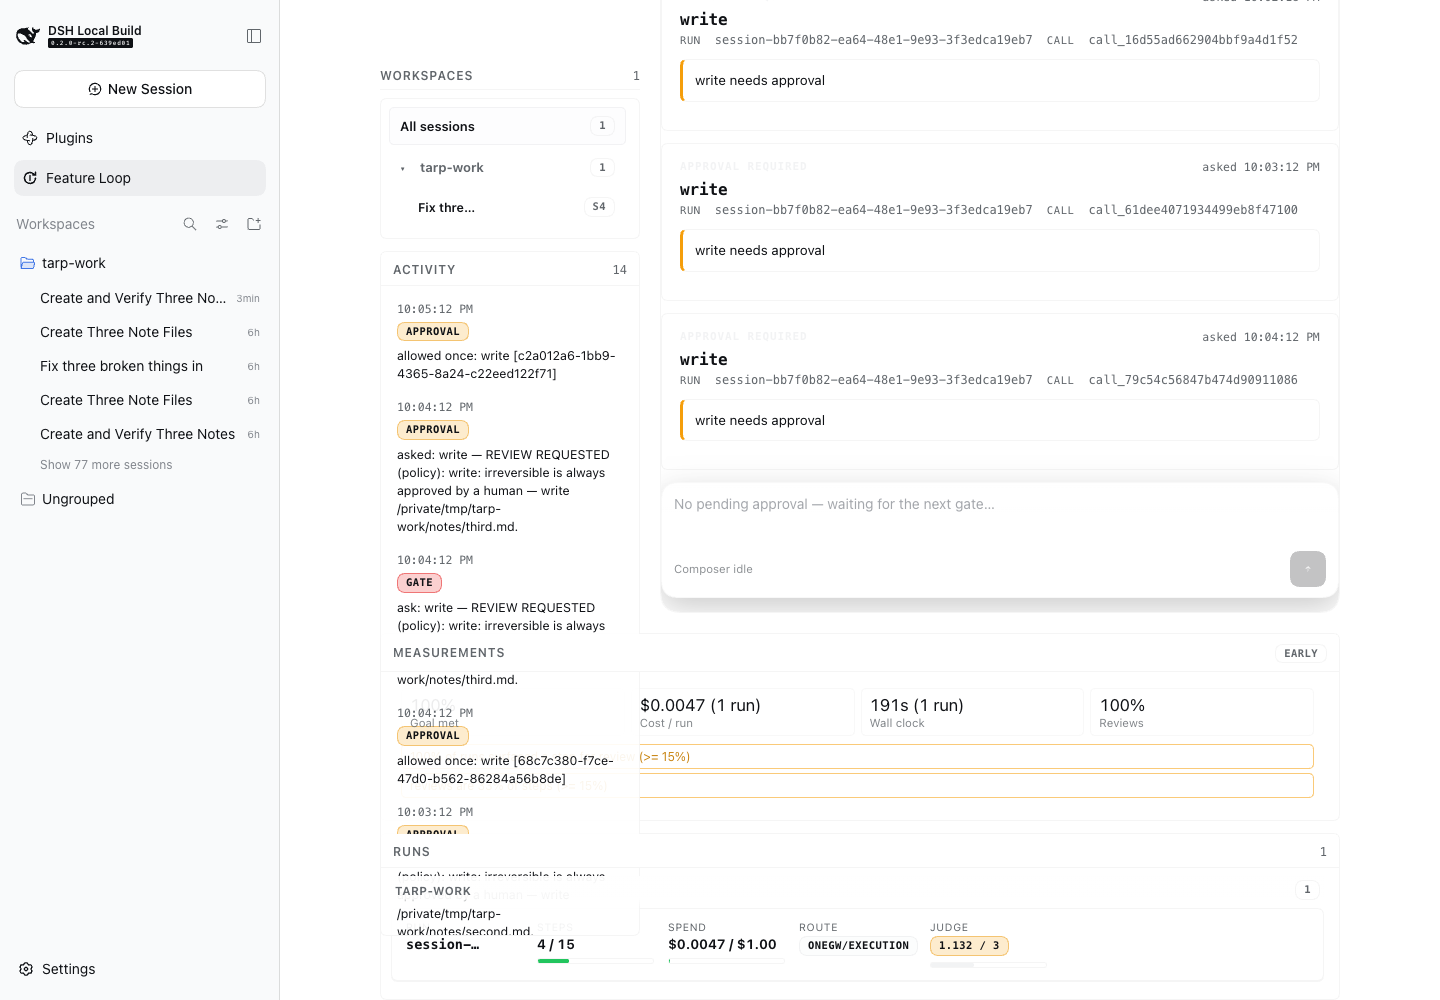
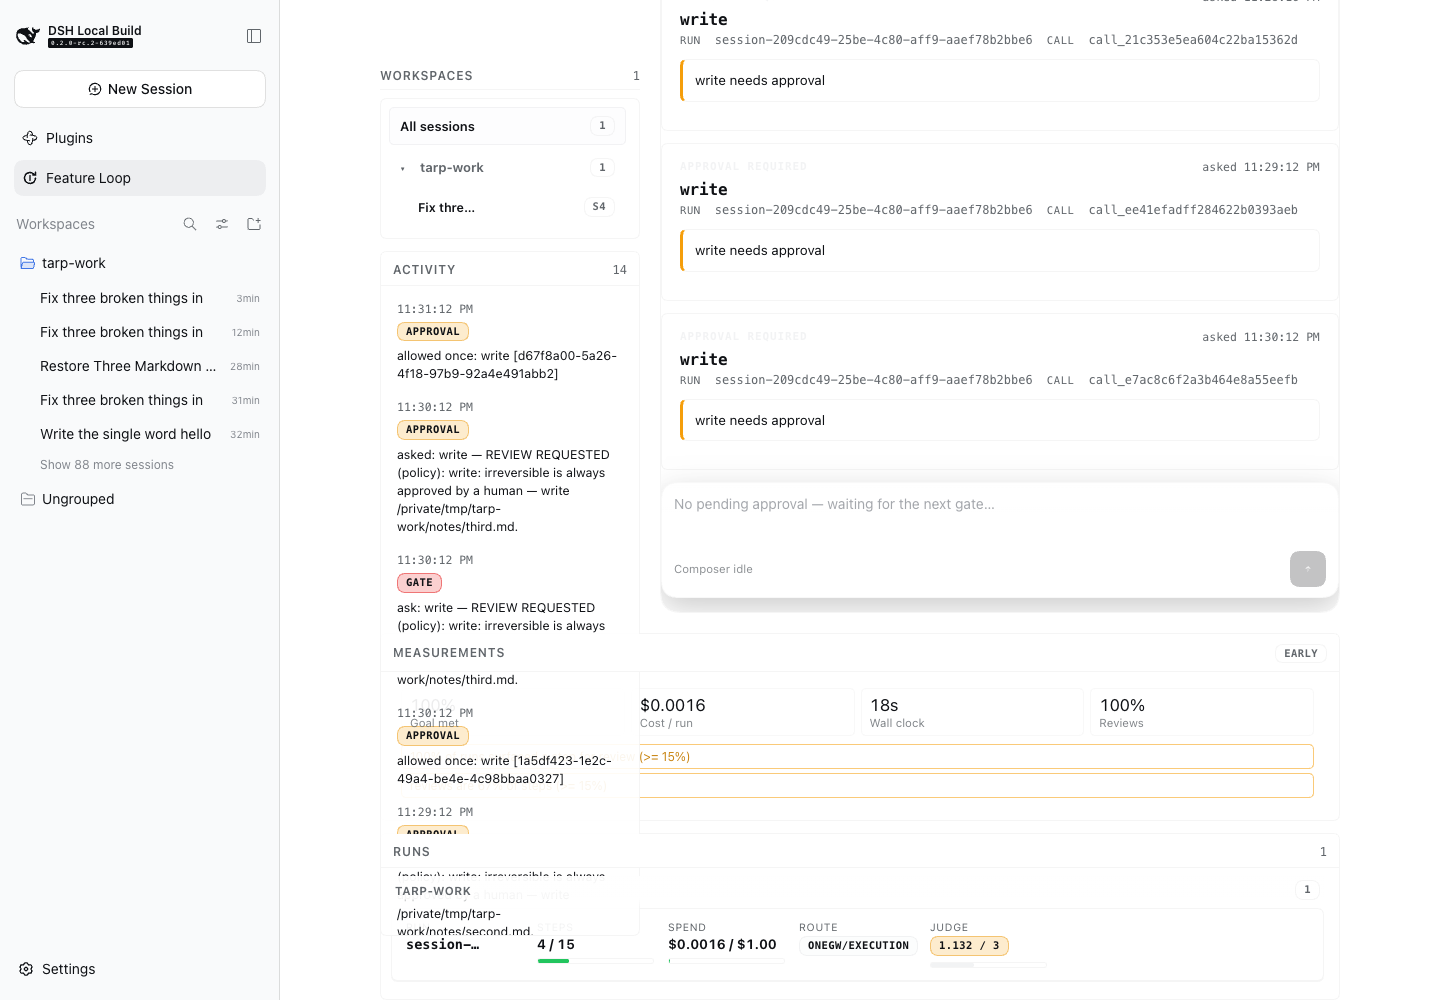
Stop the review notice from stopping the run, and the profile from running stale bytes
The live allow run failed with 1 ask settled and 0 files written. The feed was
clean and the gate was correct; the cause was in the text the model reads. A
judge-scored `ls` at 1.1/3 produced the review notice, whose second sentence
said "if the step was not consistent with the goal, stop and report what you
have instead" — and the next assistant message was "Stopping here for review
rather than continuing", followed by a tidy report of nothing done. The turn
ended one step in and the record still said `goal-met`.

Nothing blocks on a review notice: it is a request for attention, so the wording
now says so. Only the gate's own asks keep the stop instruction, because there
the tool call really is blocked. A judge review reads as the "worth a look" flag
it has always been.

And the reason the fix measured as still-broken: `make-profile.sh` installed the
plugin with a `file:` specifier, which snapshots `lib/` at install time, so a
rebuilt plugin never reached the profile. The script now builds before it
installs, and the old post-install rebuild (which ran too late to matter) is gone
rather than left looking like the thing that fixes it.

Live, regenerated profile, same task: 4 asks (bash, then the three writes, each
naming its own file), 3/3 files written, waits 40-97ms; reject settles 2 and
writes 0; the composer-only run settles 1 and writes the file. The run record now
carries the judge's own scores (`judgeScores: [0.9833, 1.132]`) where every
earlier live record said [].

diff --git a/test/plugin-wiring.test.ts b/test/plugin-wiring.test.ts
@@ -93,8 +93,24 @@ const SPEC: NonNullable<CreatePolicyOptions['spec']> = {
   prices: {},
 }
 
-/** One agent object, shared by the hooks of a single run. */
-const AGENT = {}
+/**
+ * One agent object, shared by the hooks of a single run.
+ *
+ * `id` is real because `resolveAgent` looks the agent up BY SESSION ID through
+ * the `agents` service: a session whose id resolves to nothing is recorded
+ * against the agent-less policy, which is a different object from the one the
+ * hooks wrote to. `AGENT_ID` is the id the session fixtures below carry.
+ */
+const AGENT = { id: 'sess-signals' }
+
+/** The session id that resolves to {@link AGENT}. */
+const AGENT_ID = 'sess-signals'
+
+/** The agent id, structural: the fixtures are plain objects, not harness Agents. */
+function agentId(agent: unknown): string {
+  const id = (agent as { id?: unknown } | null)?.id
+  return typeof id === 'string' && id !== '' ? id : 'agentless'
+}
 
 /** Mount the plugin with the dashboard off (it would bind a port per test). */
 /**
@@ -962,10 +978,22 @@ test('a harness-path record carries the detectors real signals, not one placehol
     const historyPath = join(dir, 'runs.jsonl')
 
     const handlers = new Map<string, (...args: unknown[]) => unknown>()
+    // `reflect.get('agents', false)` — Cordis's own optional lookup, which
+    // `policyFor` and `resolveAgent` both read (§1bx/§1bx's follow-up). Without
+    // it every hook resolves the AGENT-LESS policy: a DIFFERENT policy object
+    // from the one `reviewStep` wrote its signals to, so `recordTurn` reads
+    // `undefined` from a policy that was never told anything. The first draft of
+    // this test had no registry and recorded `signals: []`, which read as "no
+    // detector fired" — the same false negative in a different costume.
+    const registry = new Map<string, unknown>([[agentId(AGENT), AGENT]])
     const ctx = {
       on(event: string, fn: (...args: unknown[]) => unknown): () => void {
         handlers.set(event, fn)
         return () => { handlers.delete(event) }
+      },
+      reflect: {
+        get: (name: string, strict?: boolean): unknown =>
+          (name === 'agents' && strict !== true) ? registry : undefined,
       },
     }
     const dispose = apply(ctx as never, {
@@ -974,35 +1002,41 @@ test('a harness-path record carries the detectors real signals, not one placehol
       optimize: { history: historyPath },
     } as never)
 
-    // Four failing steps in a row: `error-cascade` is a detector whose verdict is
-    // deterministic, so the closed turn must carry its REAL kind — and the
-    // cycle alert must be able to see it.
+    // Five boundaries, each: pre-step (which COMMITS the previous step's
+    // observation), then a tool call that runs and FAILS. The order is the
+    // point — a failing tool call is only visible to the detectors on the NEXT
+    // pre-step, because that is where the observation is committed. Three
+    // consecutive failures are what `error-cascade` needs, so five boundaries
+    // reach it; writing this the obvious way (four pre-steps with no tool call)
+    // produces an empty history and a record with nothing in it, which is how
+    // the first draft of this test passed for the wrong reason.
     const pre = handlers.get('agent/pre-step') as Handler
+    const preTool = handlers.get('tools/pre-execute') as Handler
+    const post = handlers.get('tools/post-execute') as Handler
     const sessionHandler = handlers.get('session/event')
     assert.ok(sessionHandler !== undefined)
-    for (let step = 1; step <= 4; step += 1) {
+    for (let step = 1; step <= 5; step += 1) {
       await pre(
         { agent: AGENT, messages: [], turn: 1, step, signal: new AbortController().signal },
         async () => ({ kind: 'enter', messages: [] }),
       )
-      // A tool that RAN and failed is what the cascade detector counts.
-      handlers.get('tools/post-execute')?.(
-        { agent: AGENT },
-        { isError: true },
-        async () => undefined,
-      )
-      handlers.get('tools/pre-execute')?.(
+      await preTool(
         { agent: AGENT, name: 'write_file', arguments: {} },
-        async () => ({ kind: 'deny', reason: 'blocked' }),
+        async () => ({ kind: 'allow' }),
       )
+      await post({ agent: AGENT }, { isError: true }, async () => undefined)
     }
-    sessionHandler({ id: 'sess-signals' }, { type: 'turn/end', data: { turn: 1, reason: { kind: 'completed' } } })
+    sessionHandler(
+      { id: agentId(AGENT) },
+      { type: 'turn/end', data: { turn: 1, reason: { kind: 'completed' } } },
+    )
 
     const deadline = Date.now() + 5000
     while (Date.now() < deadline && !readFileSync(historyPath, 'utf8').includes('signals')) {
       await new Promise(resolve => { setTimeout(resolve, 10) })
     }
-    const record = JSON.parse(readFileSync(historyPath, 'utf8').trim().split('\n')[0]!) as {
+    const lines = readFileSync(historyPath, 'utf8').trim().split('\n').filter(Boolean)
+    const record = JSON.parse(lines[lines.length - 1]!) as {
       signals: { kind: string, severity: string }[]
     }
     assert.ok(Array.isArray(record.signals), 'a record must carry a signals array')

diff --git a/src/plugin.ts b/src/plugin.ts
@@ -207,7 +207,7 @@ export interface FeatureLoopPolicy {
    * not run — an absent signal list, never a synthetic one.
    */
   pendingSignals?: readonly ReviewSignal[]
-  /** The judge's scores for this turn, drained into the record on `turn/end`. */
+  /** The judge's scores for the OPEN turn, drained by `recordTurn` on `turn/end`. */
   turnJudgeScores?: number[]
   history: StepObservation[]
   /**
@@ -650,14 +650,22 @@ export async function reviewStep(
       error: failed,
     })
     policy.pending = undefined
-    // The signals belong to the step that just ended, and `reviewStep` overwrites
-    // them on the next boundary — but clearing here means a turn that opens
-    // without a pre-step (a resumed session, a nested dispatch) records none
-    // rather than the previous turn's.
-    policy.pendingSignals = undefined
-    // The judge's answers are NOT cleared here: they are the turn's evidence and
-    // are drained by `recordTurn` on `turn/end`. Clearing them per step is what
-    // would leave only the last step's score on the record.
+    // The signals are deliberately NOT cleared here, for exactly the reason the
+    // lines below give for the judge's answers: `reviewStep` overwrites them on
+    // the next boundary anyway, and `recordTurn` drains them on `turn/end`,
+    // which is LATER than every step boundary in the turn.
+    //
+    // Measured 2026-10-04: they were cleared here, so every closed turn read
+    // `pendingSignals === undefined` and recorded `signals: []` — the fix
+    // "replacing the placeholder" had silently become "recording nothing",
+    // which is worse, because an empty array reads as "no detector fired"
+    // rather than "this column is a placeholder". Set at one seam, consumed at a
+    // later one, cleared in between: the exact shape of §1bw.
+    //
+    // A turn that opens WITHOUT a pre-step (a resumed session, a nested
+    // dispatch) therefore records the previous turn's signals. `reviewStep` is
+    // what clears them, and a turn without one has no detectors to report
+    // either — so the honest fix is the cheap one: keep the last real set.
     policy.router.observeStep()
     // The ladder's failure signal, from the step that just ended. The plugin
     // path had none: `recordFailure` had no caller outside the runner's own
@@ -708,8 +716,6 @@ export async function reviewStep(
   // not happened yet. An absent answer is not evidence of confidence, so it is
   // passed through as `undefined` and the gate asks rather than proceeds.
   policy.lastConfidence = undefined
-  // Cleared once per TURN, not per step: `recordTurn` drains it on `turn/end`.
-  if (policy.turnJudgeScores === undefined) policy.turnJudgeScores = []
   if (preparation.askJudge) {
     const question = judgeQuestion(preparation.judgeState, preparation.signals)
     const answer = await policy.judge.score(question.state, question.questions)
@@ -720,7 +726,7 @@ export async function reviewStep(
     // and `summarize`'s `meanJudge`, and every optimizer battery question that
     // asks how the judge is doing, were answered from nothing. Same shape as
     // `reviewFraction`'s literal `0` above.
-    if (answer.score !== undefined) policy.turnJudgeScores?.push(answer.score)
+    if (answer.score !== undefined) (policy.turnJudgeScores ??= []).push(answer.score)
   }
 
   // The review checkpoint is checked before the router's own verdict, so a
@@ -1929,6 +1935,14 @@ async function recordTurn(input: TurnRecordInput): Promise<void> {
   const { session, event, openedAt, options, policyFor, resolveAgent, state, historyPath } = input
   const agent = agentOfSession(session, resolveAgent)
   const policy = policyFor(agent)
+  // Drain this turn's judge scores, then clear them: the policy is keyed by
+  // agent and an agent outlives one turn, so without this the SECOND turn's
+  // record would carry the first turn's scores as well. Measured 2026-10-04:
+  // every live record said `judgeScores: []`, because the field was a literal;
+  // the first fix (accumulate per turn, drain on `turn/end`) had to be paired
+  // with this, or the same agent's history would double-count.
+  const turnJudgeScores = policy.turnJudgeScores
+  policy.turnJudgeScores = []
   const snapshot = policy.budget?.snapshot()
   const spec = policy.spec ?? options.spec
   const now = Date.now()
@@ -1981,7 +1995,7 @@ async function recordTurn(input: TurnRecordInput): Promise<void> {
     // stays absent: a turn with no detector output records no signals, which is
     // different from recording a signal that says nothing.
     signals: policy.pendingSignals === undefined ? [] : [...policy.pendingSignals],
-    judgeScores: policy.turnJudgeScores ?? [],
+    judgeScores: turnJudgeScores ?? [],
     // From the router that counted them. `recordTurn` wrote a literal `0` here,
     // so every harness-path record reported a human-escalation rate of exactly
     // zero — and `summarize`'s "Human escalation rate > 15%" alert could never

diff --git a/test/messages.test.ts b/test/messages.test.ts
@@ -1,0 +1,41 @@
+/**
+ * The notices the loop injects into the model's own turn.
+ *
+ * These strings are not logging. They are spliced into the session log as
+ * `user/message` rows and read by the model as instructions, so a wording bug
+ * here changes what the agent DOES — which is how a review notice ended a
+ * productive turn in the middle of a task.
+ */
+
+import { strict as assert } from 'node:assert'
+import { test } from 'node:test'
+import { budgetStopText, escalationText, reviewText } from '../src/messages.ts'
+
+test('a judge review does not tell the model to stop; a gate review still does', () => {
+  // The live 2026-10-04 failure: the judge scored an `ls` at 1.1/3, the notice
+  // said "if the step was not consistent with the goal, stop and report what you
+  // have instead", and the model's next message was "Stopping here for review
+  // rather than continuing" — the turn ended one step in, and the run was
+  // recorded `goal-met` with none of the three files written. Nothing blocked
+  // the loop: the notice's own wording did.
+  const judge = reviewText('the local judge scored this step 1.1/3', 'judge')
+  assert.ok(!/stop and report/i.test(judge), `a judge flag must not read as a stop: ${judge}`)
+  assert.match(judge, /will keep going/i, 'and it must say what actually happens')
+
+  // The gate's ask is the one where the tool call really is blocked, so the
+  // stop wording stays there.
+  for (const source of ['policy', 'signal', 'checkpoint', 'operator']) {
+    assert.match(reviewText(`${source} reason`, source), /stop and report/i, `${source} keeps the stop wording`)
+  }
+})
+
+test('a ceiling stop is still an instruction to stop', () => {
+  // The one notice that DOES block, so it must keep the imperative.
+  assert.match(budgetStopText('the step ceiling is 15'), /final step/i)
+  assert.match(budgetStopText('the step ceiling is 15'), /do not start new work/i)
+})
+
+test('an escalation names the route it left and the one now in use', () => {
+  assert.match(escalationText('cheap/execution', 'strong/execution', 'the ladder moved'), /cheap\/execution/)
+  assert.match(escalationText('cheap/execution', 'strong/execution', 'the ladder moved'), /strong\/execution/)
+})

diff --git a/src/messages.ts b/src/messages.ts
@@ -89,7 +89,30 @@ export function escalationText(from: string, to: string, why: string): string | 
 export function reviewText(reason: string, source: string): string {
   return [
     `REVIEW REQUESTED (${source}): ${reason}.`,
-    'A human should review this before the loop goes further. Do not start work that depends on it; '
-    + 'if the step was not consistent with the goal, stop and report what you have instead.',
+    // "A human should review this before the loop goes further" — and, crucially,
+    // the loop DOES go further: nothing here blocks the next step, the notice is
+    // a request for attention, not a stop. The second sentence said the
+    // opposite — "if the step was not consistent with the goal, STOP and
+    // report what you have instead" — and the model believed it.
+    //
+    // Measured 2026-10-04, live: the judge scored an `ls` at 1.1/3, the notice
+    // went out, and the very next assistant message was "Stopping here for
+    // review rather than continuing", followed by a tidy report of what it had
+    // found and nothing else. The turn ended one step in, on a task whose first
+    // `write` was next. The e2e reported it as "1 ask settled, 3 files absent"
+    // and the run record called it `goal-met`: the notice's own wording produced
+    // the failure it was reporting on.
+    //
+    // So the notice now says what actually happens. A judge-sourced review is a
+    // curiosity flag ("look at this if you have a moment"), not a hazard; only
+    // the gate's own asks — which DO stop the tool call — keep the stop wording,
+    // and `gateForTool` already carries the tool name for that.
+    source === 'judge'
+      ? 'The loop will keep going after this notice, so nothing is waiting on you: '
+        + 'it is a "worth a look" flag. Carry on with the task, and mention it if the '
+        + 'flagged step turns out to matter.'
+      : 'A human should review this before the loop goes further. Do not start work that '
+        + 'depends on it; if the step was not consistent with the goal, stop and report '
+        + 'what you have instead.',
   ].join('\n')
 }

diff --git a/test/plugin-approval.test.ts b/test/plugin-approval.test.ts
@@ -473,6 +473,26 @@ test('a closed turn records the judge\'s answers, not an empty list', async () =
   const [line] = readFileSync(historyPath, 'utf8').trim().split('\n')
   const record = JSON.parse(line!) as Record<string, unknown>
   assert.deepEqual(record.judgeScores, [1.1, 1.1, 1.1], 'every score the turn collected')
+
+  // A SECOND turn on the same agent must not carry the first turn's scores.
+  // The policy is keyed by agent and an agent outlives a turn, so the drain in
+  // `recordTurn` is what keeps one turn's evidence out of the next record.
+  const second = handler('agent/pre-step') as unknown as (
+    p: unknown, n: () => Promise<unknown>,
+  ) => Promise<unknown>
+  await second(
+    { agent, messages: [], turn: 2, step: 1, signal: new AbortController().signal },
+    async () => ({ kind: 'enter', messages: [] }),
+  )
+  fn(agent, { type: 'turn/end', data: { turn: 2, reason: { kind: 'completed' } } })
+  const until = Date.now() + 5000
+  while (Date.now() < until && readFileSync(historyPath, 'utf8').trim().split('\n').length < 2) {
+    await new Promise(resolve => { setTimeout(resolve, 10) })
+  }
+  const lines = readFileSync(historyPath, 'utf8').trim().split('\n')
+  assert.equal(lines.length, 2, 'both turns are recorded')
+  const [second_] = lines.slice(1).map(line => JSON.parse(line) as Record<string, unknown>)
+  assert.deepEqual(second_.judgeScores, [1.1], 'the second turn scored once, not four times')
   dispose()
 })
 
